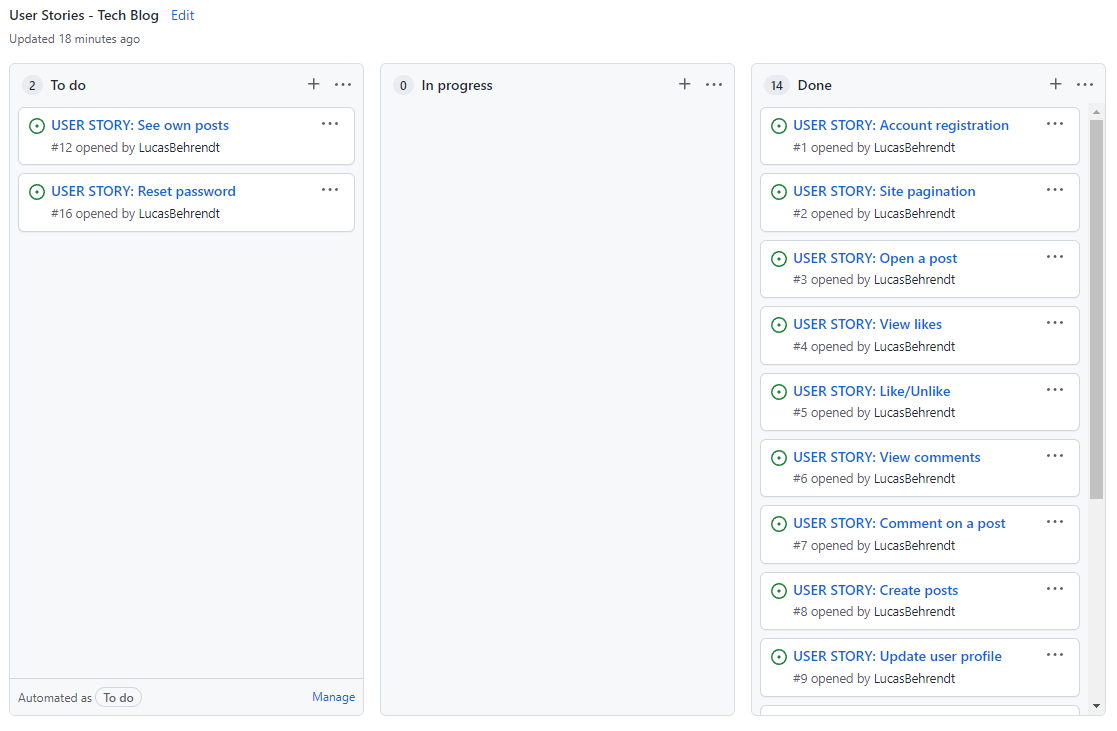
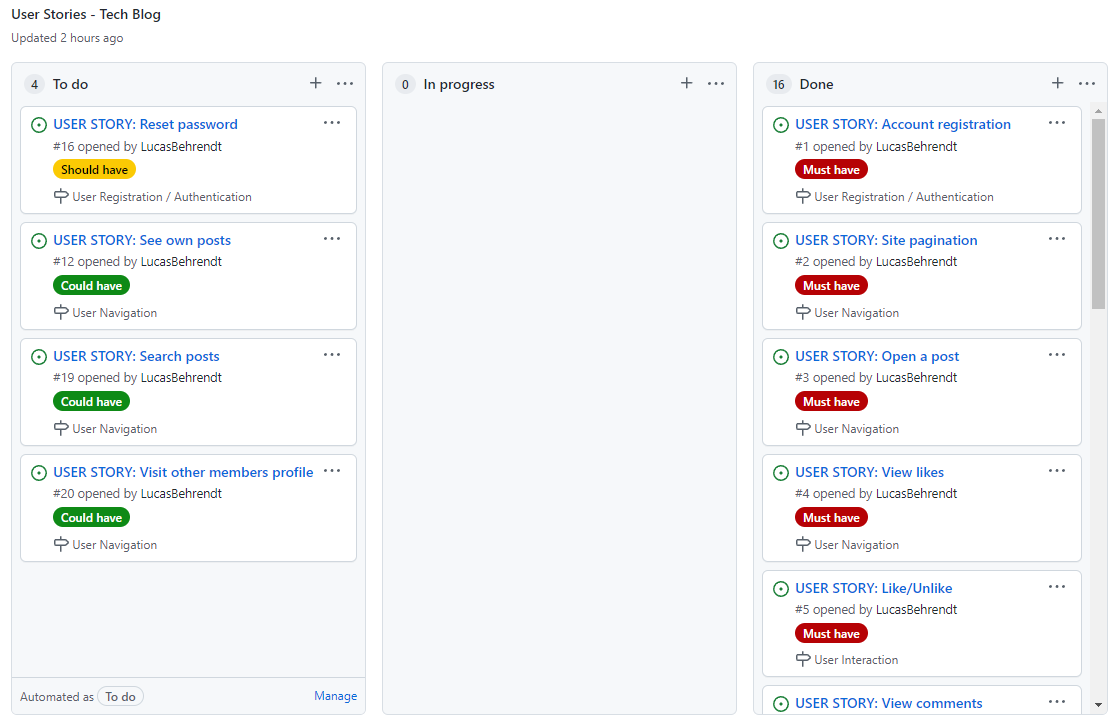
Update UX & agile content in README.md

diff --git a/README.md b/README.md
@@ -70,7 +70,7 @@ The main objective of this project is to demonstrate a robust Full Stack applica
 ## User Experience (UX)
 ### User Stories
 
-The following user stories were used in an agile approach when creating the application, implemented in order of importance. 
+The user stories were implemented in an agile approach when creating the application, developed in order of importance. They were broken up into the following Epics to help with project management.
 
 - #### Site Admin
 
@@ -80,7 +80,7 @@ The following user stories were used in an agile approach when creating the appl
 
   - As a Site Admin I can receive user inquiries on both the admin page and through email so that I can communicate with the site users.
 
-- #### User Registration
+- #### User Registration / Authentication
 
   - As a Site User I can register an account so that I can make posts and comments.
 
@@ -102,6 +102,10 @@ The following user stories were used in an agile approach when creating the appl
 
   - As a Site User I can view a list of my own posts so that I can see my content and have easy access to it.
 
+  - As a Site User I can visit other members profile pages so that I can see their information and a list of their posts.
+
+  - As a Site User I can search among the posts so that I can find a certain post or posts about a certain topic.
+
 - #### User Interaction
 
   - As a Site User I can like / unlike a post so that I can interact with the content and show appreciation.
@@ -120,6 +124,8 @@ The following user stories were used in an agile approach when creating the appl
 
 The site is structured with simplicity and accessibility in mind, to help users intuitively navigate the site. The landing page gives the user relevant information about each post without cluttering the feed. A simple, fully responsive navigation helps keep the flow of the site balanced when navigating and interacting with the application. All pages are carefully structured to be consistent and pleasing to browse. All user interactions, such as registering an account or creating a post have logical responses and provide relevant feedback.
 
+When a user creates a new post or leave a comment, their content is instantly visible on the site for the best user experience when interacting with the application. Instead of users having to wait to get their posts or comments approved by the site admin, the content is managed manually by the site admin from the Django admin page. This leads to a more positive and instant user feedback and helps maintain the flow of content on the site.
+
 To help facilitate a logical flow of the application during the development process, a simple flowchart was created using [Lucidchart](https://www.lucidchart.com/pages/).
 
 <details>
@@ -132,7 +138,9 @@ To help facilitate a logical flow of the application during the development proc
 
 ### Data Model
 
-The database used for the application requires a Post, Comment and Inquiry model. The user authentication system is included in the Django framework and a User model was therefore already provided. To get an idea of the relationships and fields required in the models, an ERD (Entity Relationship Diagram) was created using [Lucidchart](https://www.lucidchart.com/pages/).
+The database used for the application requires a Post, Comment and Inquiry model. The user authentication system is included in the Django framework and a User model was therefore already provided.
+
+To get an idea of the relationships and fields required in the models, an ERD (Entity Relationship Diagram) was created using [Lucidchart](https://www.lucidchart.com/pages/).
 
 <details>
 
@@ -164,7 +172,7 @@ The database used for the application requires a Post, Comment and Inquiry model
 
   - The post field has a FK to the Post model, to make sure the comment is assigned to the correct blog post.
 
-- #### Inquiry Model
+- #### Inquiry Model UPDATE?
 
   - ID and time of creation is given automatically.
 
@@ -276,9 +284,21 @@ Delete post page<br>
 
 ## Agile Methodology
 
-To better plan and understand the development process, an agile approach was taken when implementing features. GitHub Projects provides a great way of keeping track of progress made and user stories to develop. By creating a project board on a basic kanban template, the development process can be overviewed and tackled in a proficient and time-effective way. Each user story was first created and added to the project board, then moved to In Progress as the feature was being developed, and finally to Done. With this approach it's easy to make sure the most important features gets implemented first.
+To better plan and understand the development process, an agile approach was taken when implementing features. GitHub Projects provides a great way of keeping track of progress made and user stories to develop. By creating a project board on a basic kanban template, the development process can be overviewed and tackled in a proficient and time-effective way. Each user story was first created, assigned to an Epic and added to the project board, then moved to In Progress as the feature was being developed, and finally to Done.
 
-This approach is especially powerful when working in teams, but still made the development process more enjoyable and easier to keep track of when developing alone.
+Labels were created and assigned to each user story to help keep track of the importance. 'Must have' labelled user stories have all been finished, 'Should have' labelled user stories were mostly finished, save for one. The 'Could Have' labelled user stories were not implemented due to time constrains, but this labelling system provides a valuable way of ensuring that the most important features gets implemented first.
+
+The distribution of user stories by label are:
+
+- Must have: 60% (12 of 20)
+
+- Should have: 25% (5 of 20)
+
+- Could have: 15% (3 of 20)
+
+When starting the development of each user story, the implementation was broken down into smaller steps that simplified how to tackle the process. For example, when developing the 'create posts' user story, steps like creating the view, rendering the form, handling user errors etc were a great way of managing the development process. This helped keep an organized and agile mindset on how to get the best result within a reasonable timeframe.
+
+This agile approach is especially powerful when working in teams, but still made the development process more enjoyable and easier to keep track of when developing alone.
 
 <details>
 
@@ -678,13 +698,15 @@ The following section will provide an overview of the features included in Tech 
 
 - Password reset through the registered e-mail, if the user forgets their password.
 
-- See a list of the users own post, to easier manage their own content.
+- See a list of the users own posts, to easier manage their own content.
 
 - A nicer format for writing the body of post entries, like a rich text editor.
 
 - Search function to find a certain post or posts about a certain topic.
 
 - Automatically resize images uploaded by users to improve site performance.
+
+- Visit other members profile pages and see a list of their posts.
 
 ## Testing
 ### Code Validation
@@ -1273,7 +1295,7 @@ To make sure all interactions and forms / links work as intended, manual testing
 | &check; | Loads 500 page when an error occurs |
 | &check; | Clicking Take me back to safety! loads home page |
 
-### User Story Implementation 
+### User Story Implementation UPDATE?
 
 - #### Site Admin
 
@@ -1361,9 +1383,17 @@ To make sure all interactions and forms / links work as intended, manual testing
 
     - Unfortunately not implemented due to time constraints. Planned to be implemented in the future.
 
+  - As a Site User I can visit other members profile pages so that I can see their information and a list of their posts.
+
+    - Unfortunately not implemented due to time constraints. Planned to be implemented in the future.
+
+  - As a Site User I can search among the posts so that I can find a certain post or posts about a certain topic.
+
+    - Unfortunately not implemented due to time constraints. Planned to be implemented in the future.
+
 ### Automated Testing
 
-Using Django TestCase extensive python testing was performed, which helped show the benefits of writing tests for code. For this project an MVP was prioritized, therefore the application was built before the tests were written. After getting acquainted with testing python code on this project, a test-driven development will be adopted for future projects.
+Using Django TestCase extensive python testing was performed, which helped show the benefits of writing tests for code. For this project a Minimum Viable Product was prioritized, therefore the application was built before the tests were written. After getting acquainted with testing python code on this project, a test-driven development will be adopted for future projects.
 
 46 tests were written to test as much of the code as possible. The result is presented below.
 
